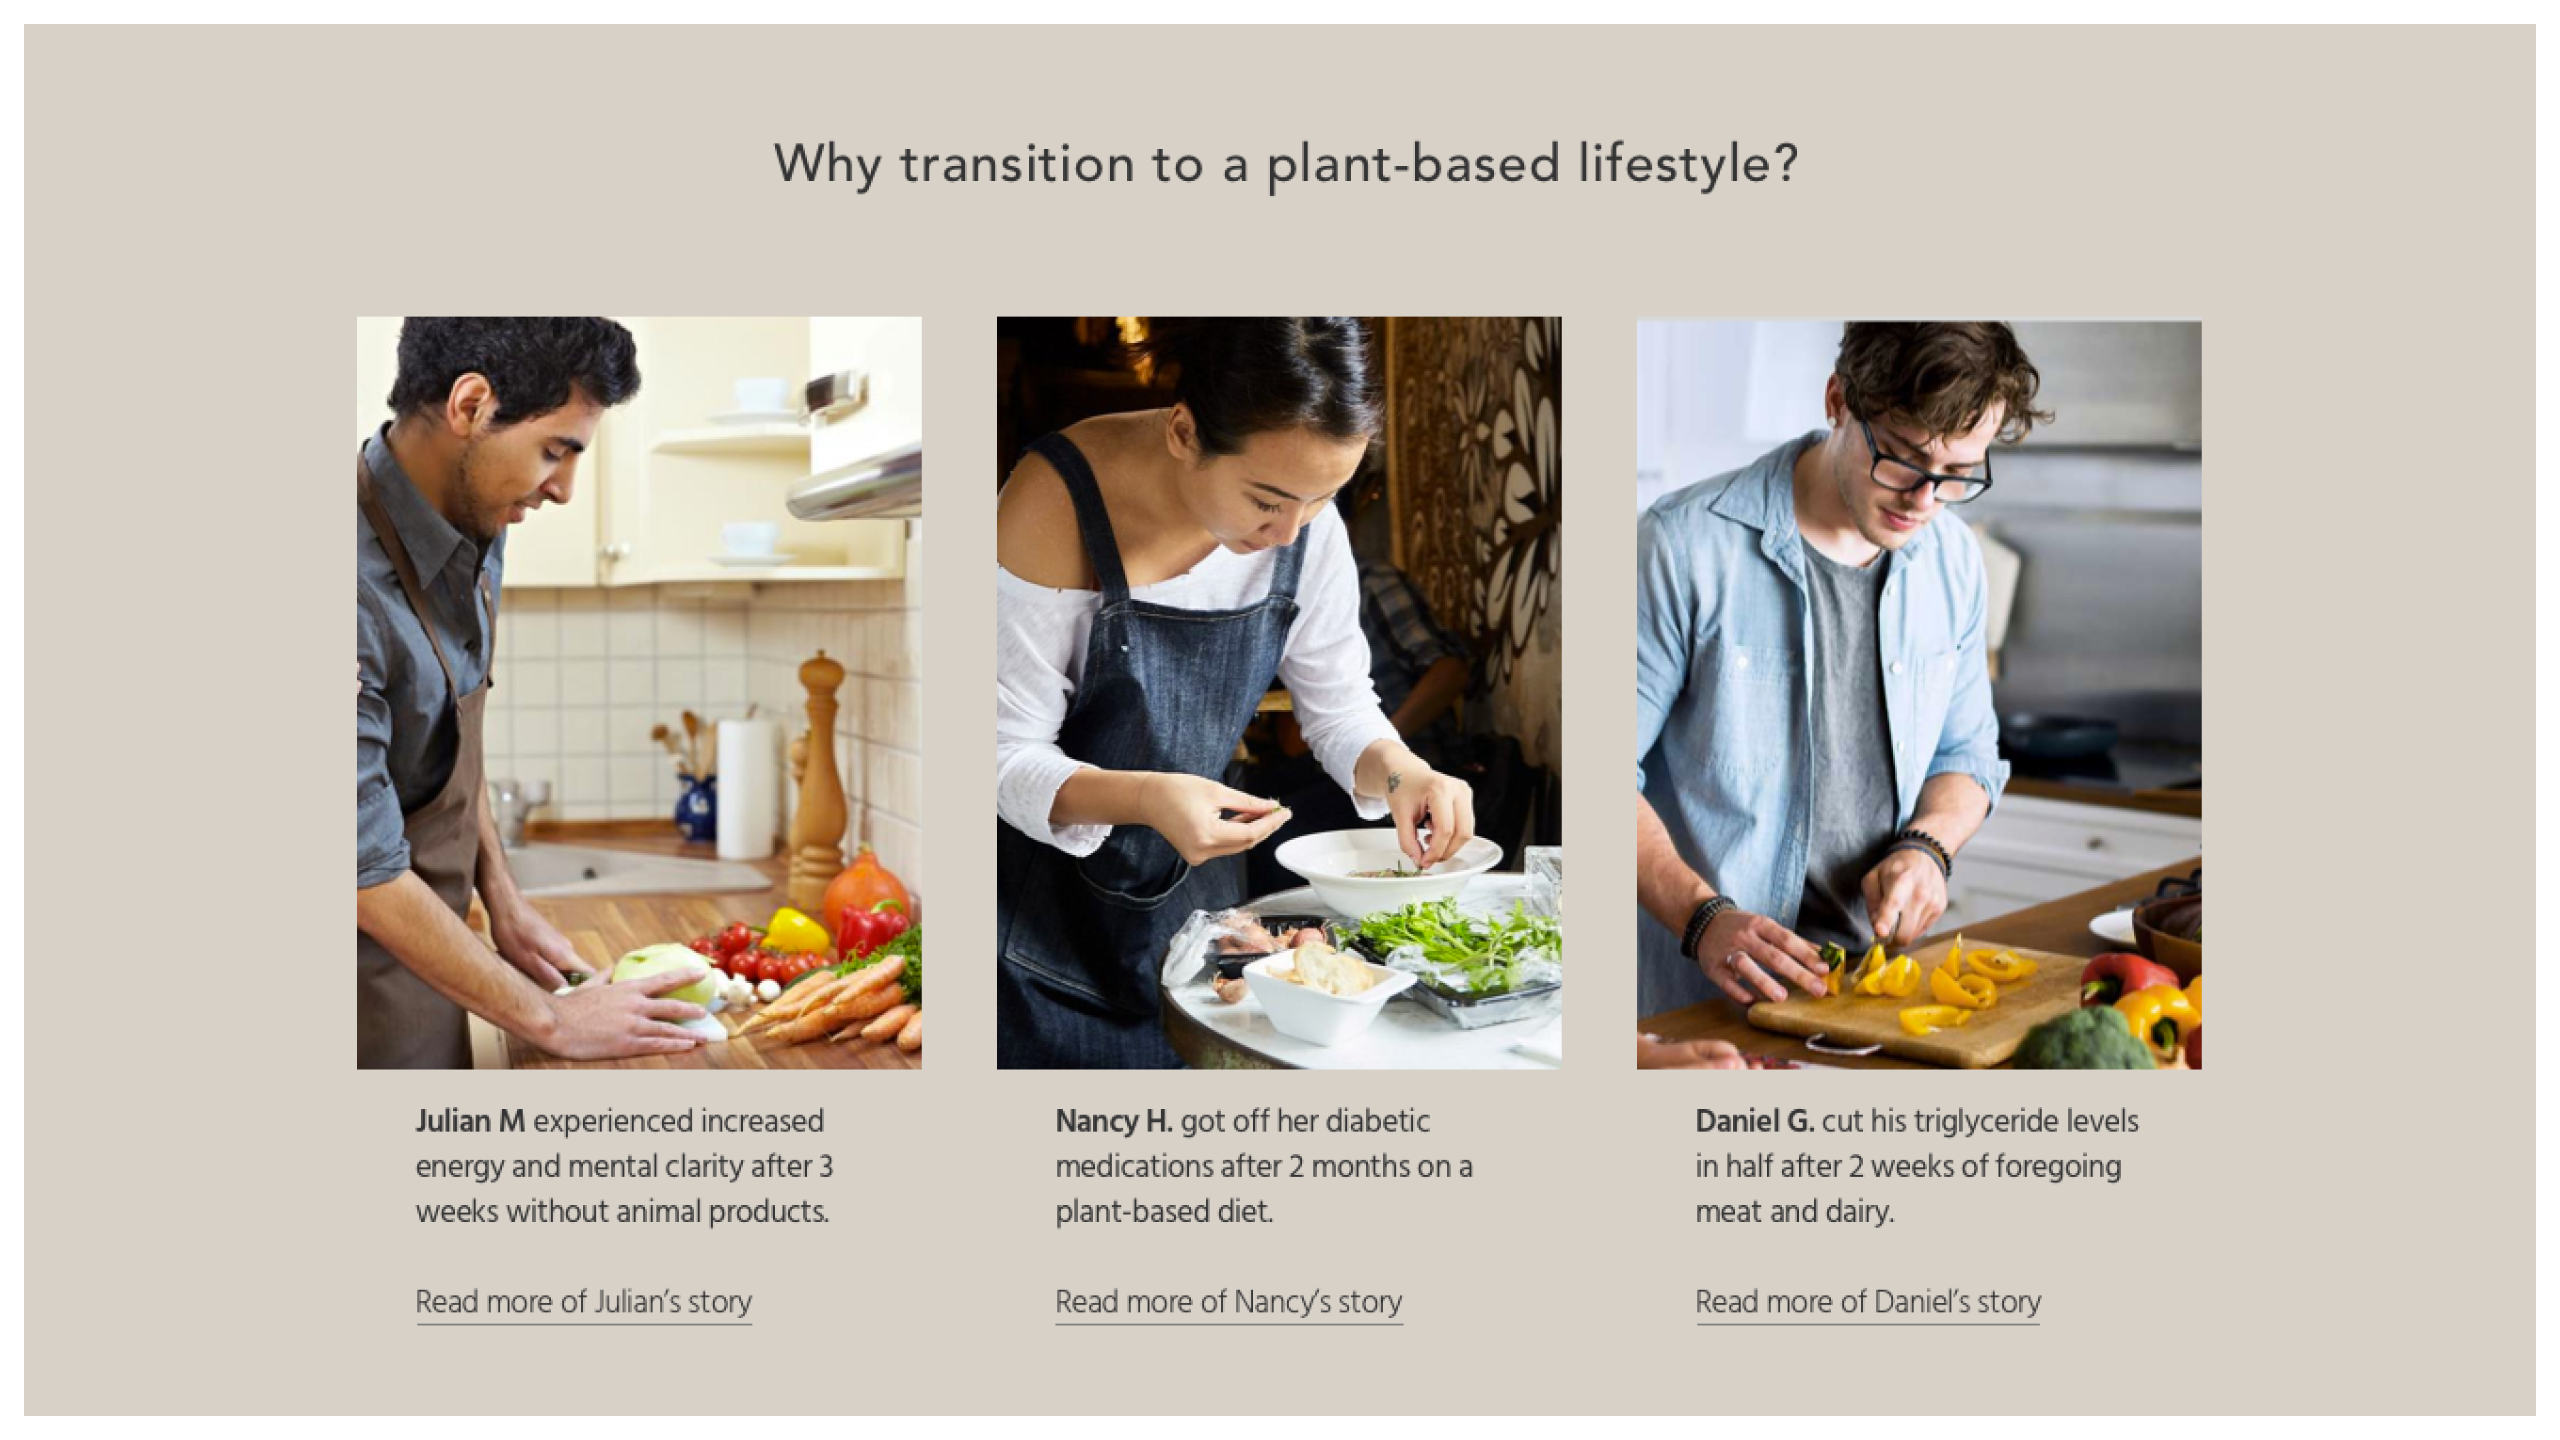
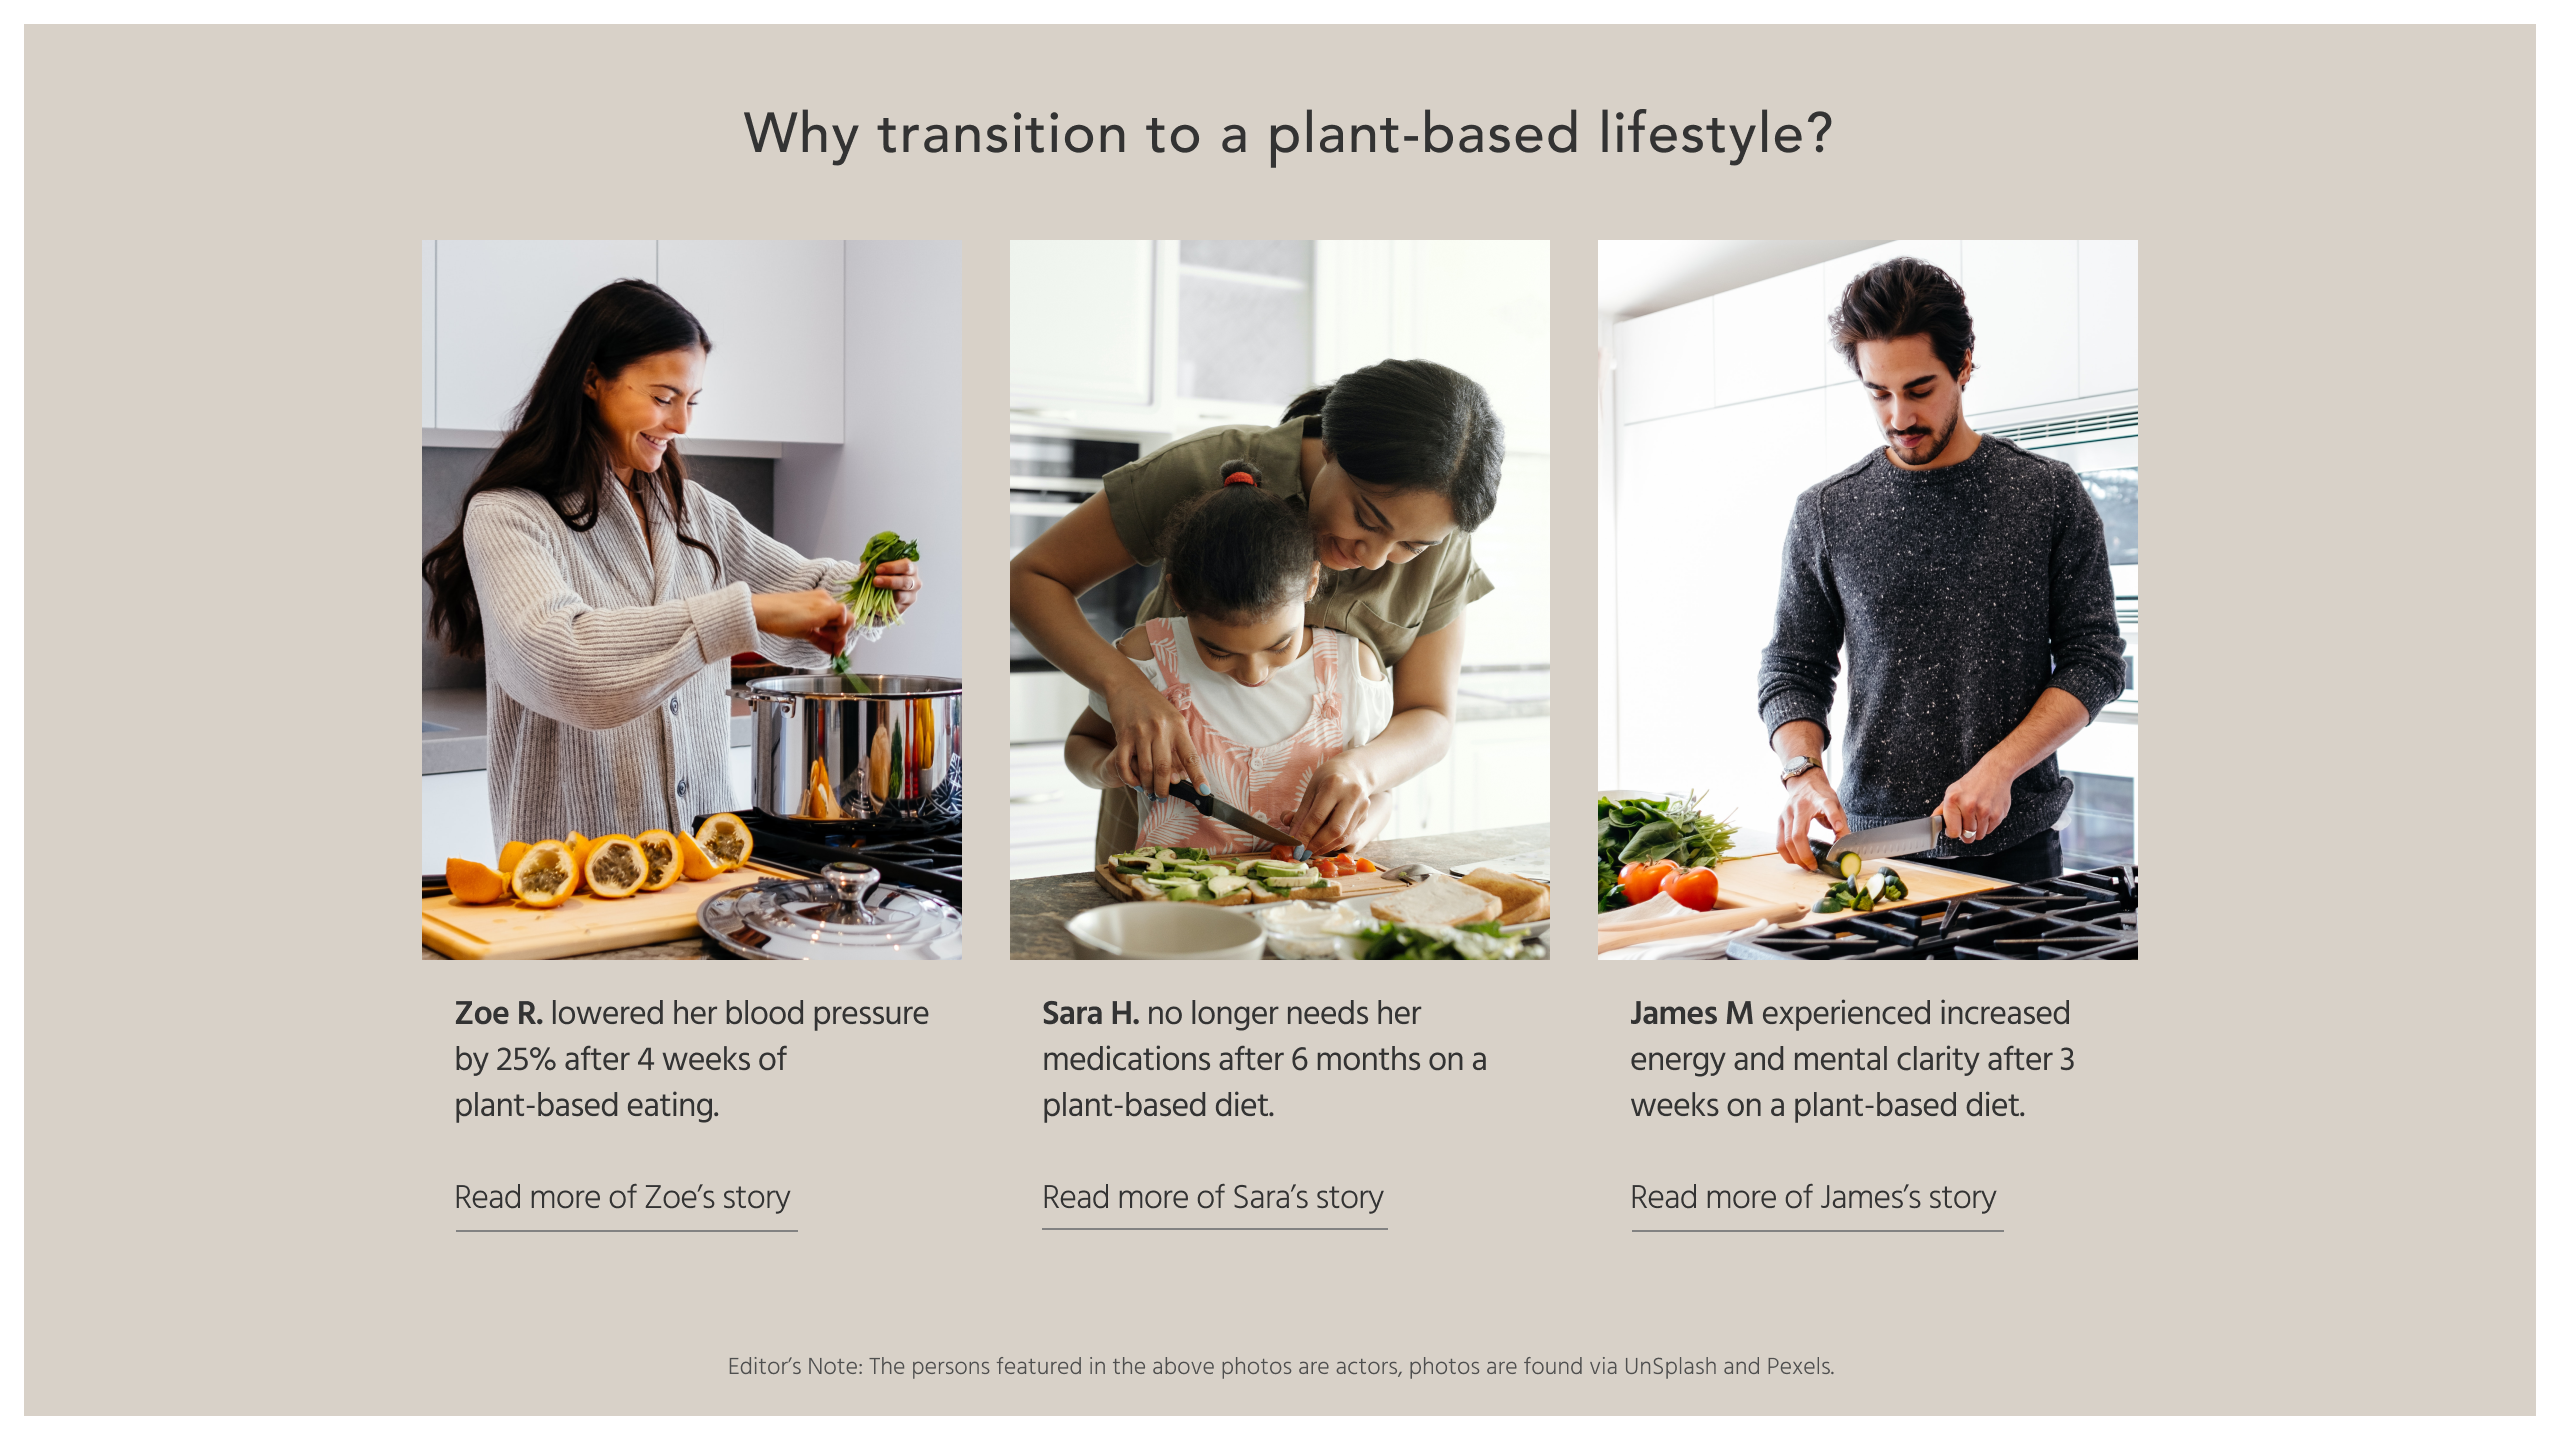
new images

diff --git a/casestudy-IngrainUXS.html b/casestudy-IngrainUXS.html
@@ -660,7 +660,7 @@
         <!-- Start of project carousel -->
 
         <figcaption class="small-caption">Food photography, images, icons, and screenshots of competitors' screens are courtesy of the following <a class="link-ref" target="_blank" href="https://docs.google.com/document/d/1Qcx_aFee52pm3qEcBaeaxx6LmRdApyGwCMxeefsseK0/edit?usp=sharing">sources</a>.
-        Photographs of persons featured on the product page were found through a search on pinterest.
+        Persons featured in the photos are actors, photos are found via UnSplash and Pexels.
         </figcaption>
 
         <section class="cs-sectionCarousel">
